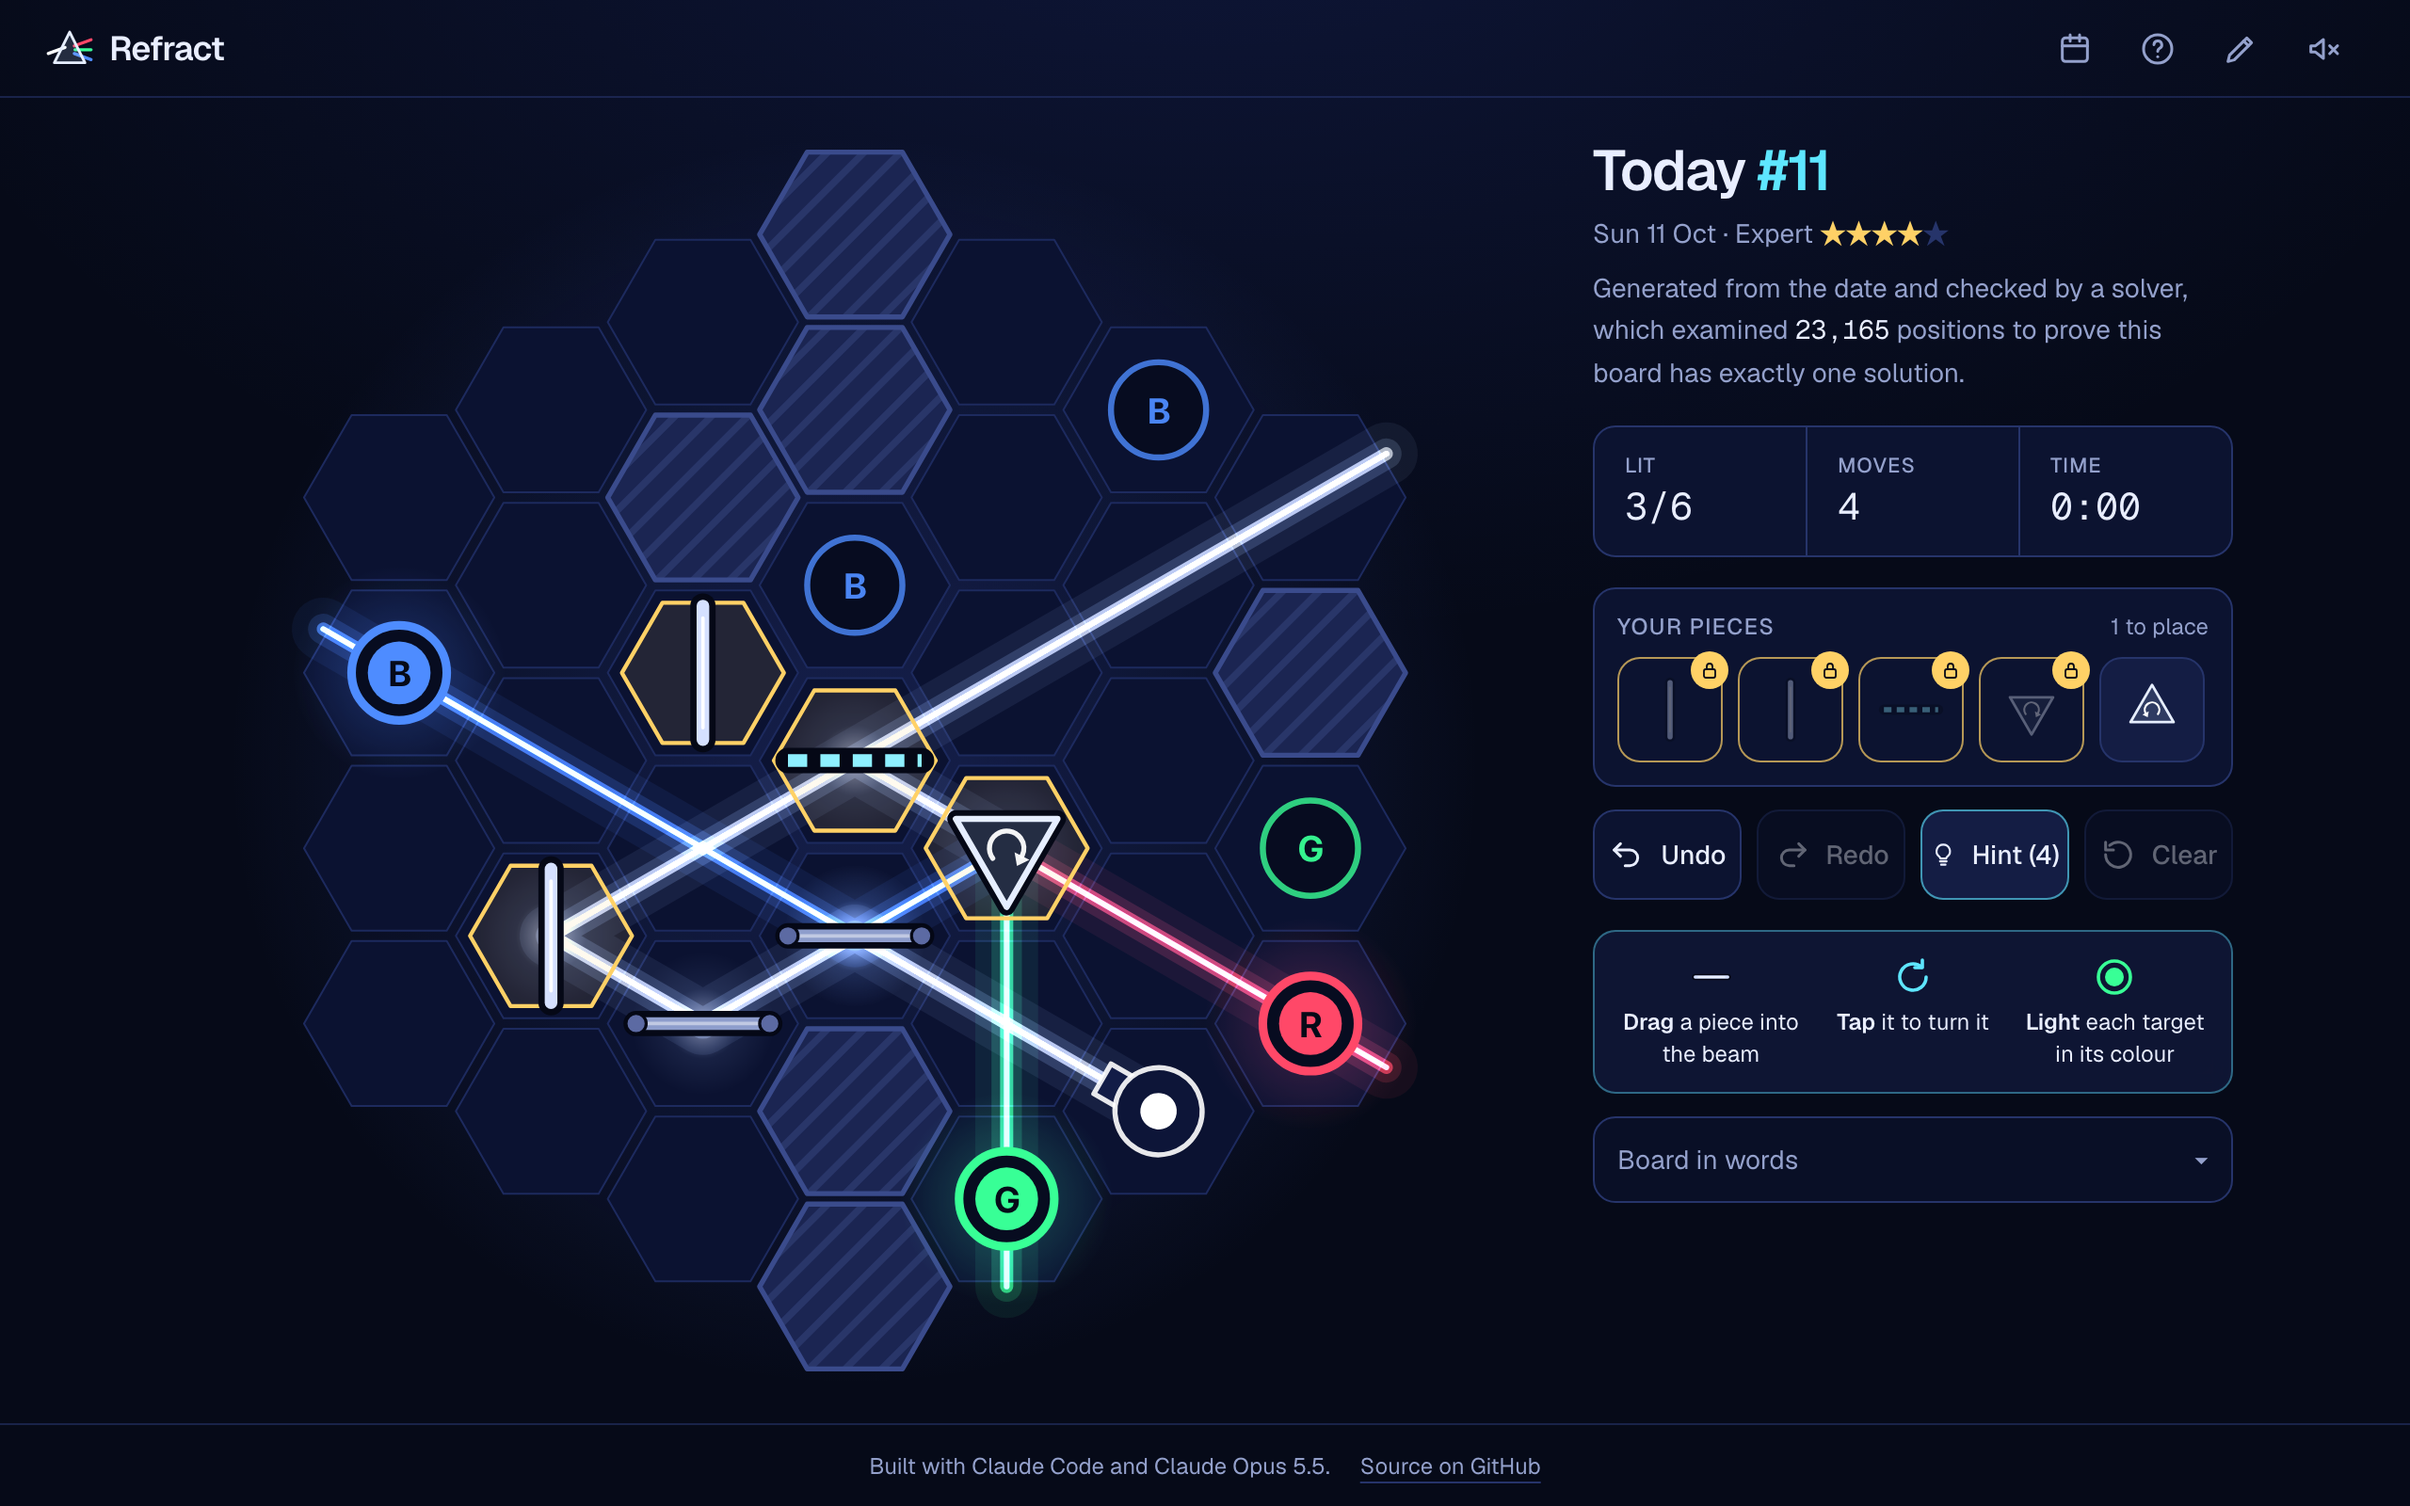
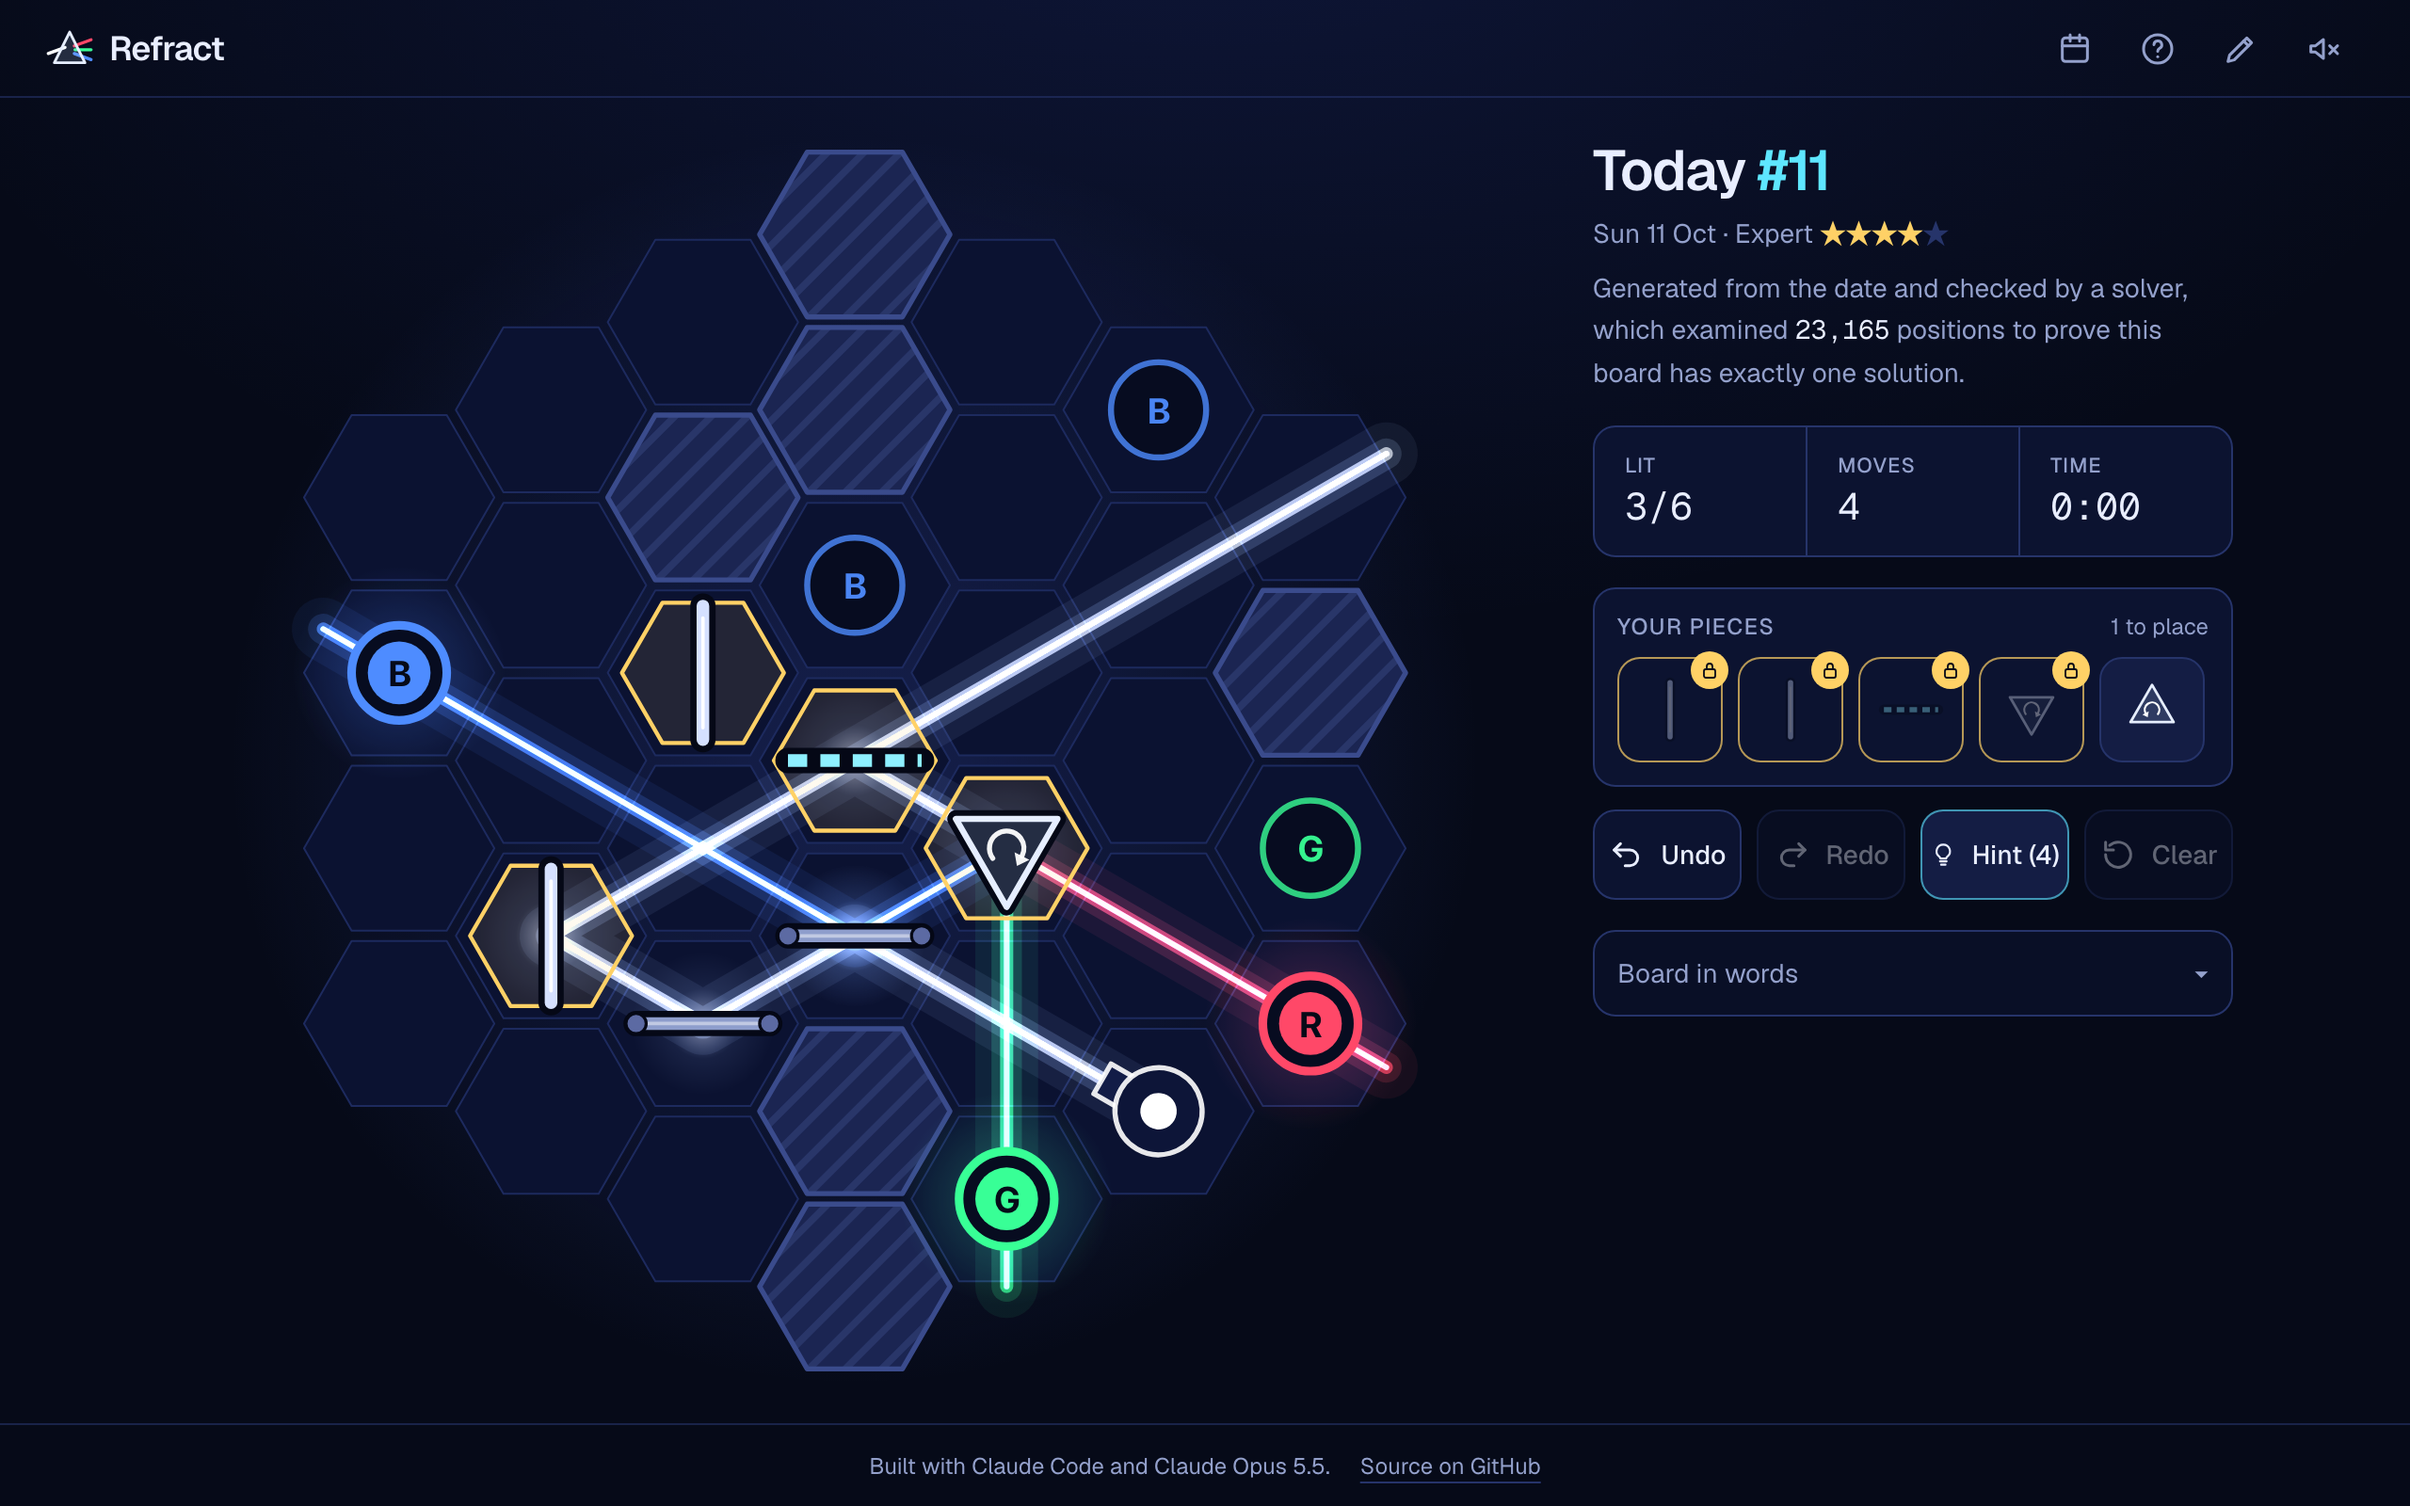
feat: show the wrong colour arriving at a target; not-found and error pages

Changed region(s): [[0.6562, 0.625, 0.9375, 0.7812]]

diff --git a/lib/render/pieces.ts b/lib/render/pieces.ts
@@ -199,7 +199,11 @@ export function drawEmitter(ctx: Ctx, u: number, x: number, y: number, dir: numb
   ctx.restore();
 }
 
-/** A target socket: hollow while it waits, filled once it has exactly its colour. */
+/**
+ * A target socket: hollow while it waits, filled once it has exactly its
+ * colour. `got` is the light arriving now; when that is the wrong colour, a
+ * dashed inner ring shows what is coming in, so "lit but not right" is visible.
+ */
 export function drawTarget(
   ctx: Ctx,
   u: number,
@@ -208,6 +212,7 @@ export function drawTarget(
   color: Color,
   lit: boolean,
   breathe: number,
+  got: Color = 0,
 ): void {
   ctx.beginPath();
   ctx.arc(x, y, u * 0.47, 0, Math.PI * 2);
@@ -221,6 +226,14 @@ export function drawTarget(
     ctx.arc(x, y, u * 0.31, 0, Math.PI * 2);
     ctx.fillStyle = lightCss(color);
     ctx.fill();
+  } else if (got !== 0 && got !== color) {
+    ctx.beginPath();
+    ctx.arc(x, y, u * 0.335, 0, Math.PI * 2);
+    ctx.setLineDash([u * 0.11, u * 0.1]);
+    ctx.lineWidth = u * 0.05;
+    ctx.strokeStyle = lightCss(got, 0.95);
+    ctx.stroke();
+    ctx.setLineDash([]);
   }
   ctx.font = `700 ${Math.round(u * 0.36)}px ${FONT}`;
   ctx.textAlign = "center";

diff --git a/app/error.tsx b/app/error.tsx
@@ -1,0 +1,23 @@
+"use client";
+
+/** Last-resort screen if a page throws while rendering. Saved games are untouched. */
+export default function PageError({ retry }: { error: Error; retry: () => void }) {
+  return (
+    <main id="main" className="grid flex-1 place-items-center px-6 py-16 text-center">
+      <div className="flex flex-col items-center gap-4">
+        <h1 className="text-2xl font-semibold tracking-tight">Something went wrong</h1>
+        <p className="max-w-sm text-sm leading-relaxed text-muted">
+          The page hit an error it could not recover from. Your saved games and streak are stored
+          in this browser and have not been changed.
+        </p>
+        <button
+          type="button"
+          onClick={() => retry()}
+          className="min-h-12 rounded-xl bg-accent px-5 text-sm font-semibold text-accent-fg hover:opacity-90"
+        >
+          Try again
+        </button>
+      </div>
+    </main>
+  );
+}

diff --git a/app/not-found.tsx b/app/not-found.tsx
@@ -1,0 +1,22 @@
+import Link from "next/link";
+import { Logo } from "@/components/icons";
+
+export default function NotFound() {
+  return (
+    <main id="main" className="grid flex-1 place-items-center px-6 py-16 text-center">
+      <div className="flex flex-col items-center gap-4">
+        <Logo size={48} />
+        <h1 className="text-2xl font-semibold tracking-tight">That beam left the board</h1>
+        <p className="max-w-sm text-sm leading-relaxed text-muted">
+          There is no page at this address. Today&apos;s puzzle is one step back.
+        </p>
+        <Link
+          href="/"
+          className="grid min-h-12 place-items-center rounded-xl bg-accent px-5 text-sm font-semibold text-accent-fg hover:opacity-90"
+        >
+          Play today&apos;s puzzle
+        </Link>
+      </div>
+    </main>
+  );
+}

diff --git a/lib/render/renderer.ts b/lib/render/renderer.ts
@@ -502,7 +502,9 @@ export class Renderer {
     ctx.globalCompositeOperation = "source-over";
     for (const target of puzzle.targets) {
       const { x, y } = cellPx(layout, grid, target.cell);
-      drawTarget(ctx, u, x, y, target.color, this.litShown.has(target.cell), breathe);
+      // The wrong-colour ring waits for the beams to settle, so it never flashes mid-animation.
+      const got = settled ? trace.light[target.cell] : 0;
+      drawTarget(ctx, u, x, y, target.color, this.litShown.has(target.cell), breathe, got);
     }
     for (const emitter of puzzle.emitters) {
       const { x, y } = cellPx(layout, grid, emitter.cell);

diff --git a/components/Help.tsx b/components/Help.tsx
@@ -74,8 +74,9 @@ export function Help() {
           </span>
         </p>
         <p className="mt-2">
-          A target that gets an extra colour is wrong, so sometimes the job is to keep light away.
-          Each target carries its colour&apos;s letter, so you never have to tell colours apart by eye.
+          A target that gets an extra colour is wrong, so sometimes the job is to keep light away:
+          a dashed ring inside a target shows the wrong colour arriving. Each target carries its
+          colour&apos;s letter, so you never have to tell colours apart by eye.
         </p>
       </div>
 
